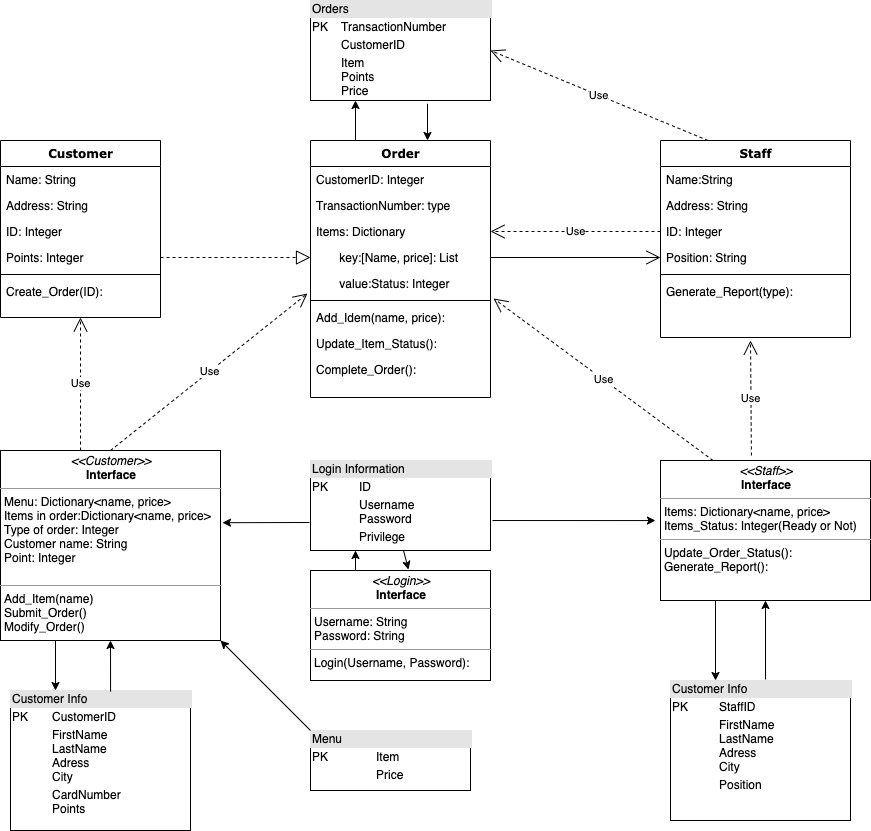
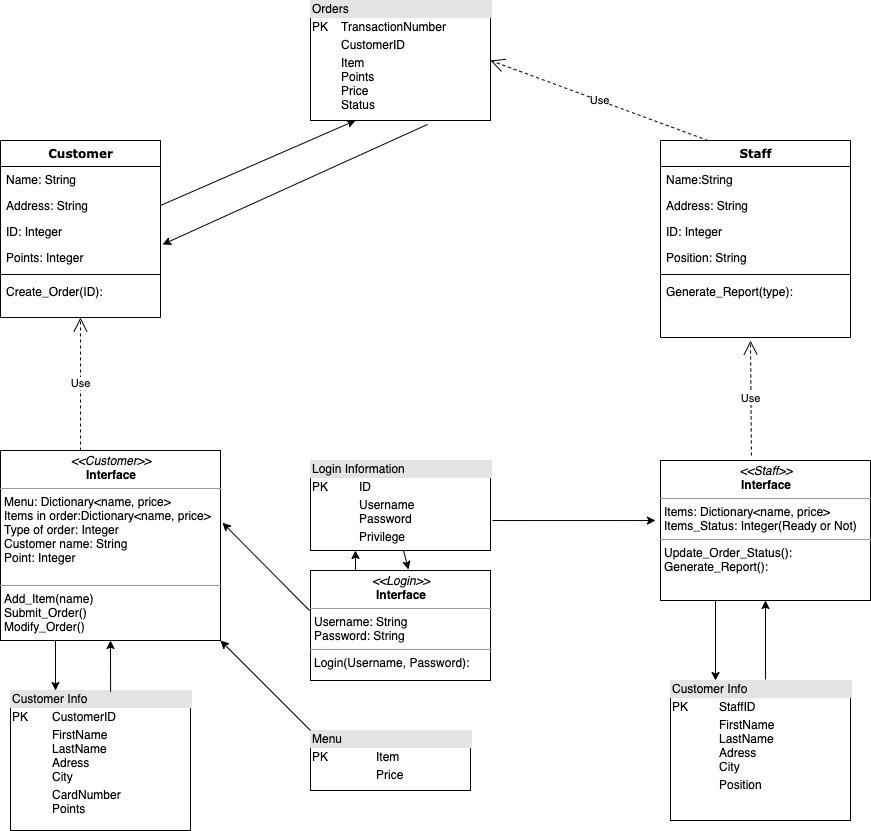
modify diagram, add connection to menu table

diff --git a/customer_interface.py b/customer_interface.py
@@ -30,11 +30,11 @@ class customer_interface(object):
         self.pushButton.setGeometry(QtCore.QRect(1250, 1100, 471, 81))
         self.pushButton.setObjectName("pushButton")
         self.label_6 = QtWidgets.QLabel(self.centralwidget)
-        self.label_6.setGeometry(QtCore.QRect(170, 130, 114, 33))
+        self.label_6.setGeometry(QtCore.QRect(130, 130, 114, 33))
         self.label_6.setAlignment(QtCore.Qt.AlignCenter)
         self.label_6.setObjectName("label_6")
         self.tableWidget = QtWidgets.QTableWidget(self.centralwidget)
-        self.tableWidget.setGeometry(QtCore.QRect(60, 160, 331, 501))
+        self.tableWidget.setGeometry(QtCore.QRect(30, 170, 371, 501))
         self.tableWidget.setObjectName("tableWidget")
         self.tableWidget.setColumnCount(2)
         self.tableWidget.setRowCount(0)
@@ -43,7 +43,7 @@ class customer_interface(object):
         item = QtWidgets.QTableWidgetItem()
         self.tableWidget.setHorizontalHeaderItem(1, item)
         self.tableWidget1 = QtWidgets.QTableWidget(self.centralwidget)
-        self.tableWidget1.setGeometry(QtCore.QRect(570, 160, 401, 501))
+        self.tableWidget1.setGeometry(QtCore.QRect(570, 170, 401, 501))
         self.tableWidget1.setMaximumSize(QtCore.QSize(851, 16777215))
         self.tableWidget1.setObjectName("tableWidget1")
         self.tableWidget1.setColumnCount(4)
@@ -89,7 +89,7 @@ class customer_interface(object):
         self.label_10.setGeometry(QtCore.QRect(1650, 1040, 231, 33))
         self.label_10.setObjectName("label_10")
         self.label_2 = QtWidgets.QLabel(self.centralwidget)
-        self.label_2.setGeometry(QtCore.QRect(730, 130, 101, 16))
+        self.label_2.setGeometry(QtCore.QRect(750, 140, 101, 16))
         self.label_2.setObjectName("label_2")
         self.pushButton_2 = QtWidgets.QPushButton(self.centralwidget)
         self.pushButton_2.setGeometry(QtCore.QRect(430, 260, 113, 51))
@@ -169,10 +169,9 @@ class customer_interface(object):
         self.pushButton_5.setText(_translate("MainWindow", "Modify"))
         self.label_3.setText(_translate("MainWindow", "Customer Name"))
         self.label_5.setText(_translate("MainWindow", "Points"))
-        
         self.pushButton_6.setText(_translate("MainWindow", "Pay"))
-        self.customerName.setText(_translate("MainWindow", "Anonymous"))
-        
-        self.points.setText(_translate("MainWindow", "0"))
+        self.customerName.setText(_translate("MainWindow", "TextLabel"))
+        self.points.setText(_translate("MainWindow", "TextLabel"))
         self.menuPlace_an_Order.setTitle(_translate("MainWindow", "Place an Order"))
+
 

diff --git a/app.py b/app.py
@@ -7,6 +7,7 @@ Created on Thu Nov 26 22:41:58 2020
 """
 import sys
 import psycopg2
+from PyQt5 import QtWidgets
 from PyQt5.QtWidgets import QDialog, QApplication, QMainWindow, QMessageBox
 from login import login_interface
 from staff_interface import staff_interface
@@ -54,19 +55,56 @@ class CustomerInterface(QMainWindow):
     def __init__(self, customerID):
         super().__init__()
         
+        cur = connect()
+            
         self.ui = customer_interface()
         self.ui.setupUi(self)
+        cur.execute("SELECT * FROM menu")
+        menu = cur.fetchall()
+        
+        for row in menu:
+            row_count = self.ui.tableWidget.rowCount()
+            self.ui.tableWidget.setRowCount(row_count+1)
+            for i in range(2):
+                cell = QtWidgets.QTableWidgetItem(str(row[i]))
+                self.ui.tableWidget.setItem(row_count, i, cell)
         
         if(customerID != 0):
-            self.ui.customerName.setText(str(customerID))
-            self.ui.points.setText('5')
-        
+            cur.execute("SELECT * FROM customer_info WHERE customerID=%s;", (str(customerID)))
+            customer = Customer(cur.fetchone())
+            self.ui.customerName.setText(str(customer.name))
+            self.ui.points.setText(str(customer.points))
+            
         
 class StaffInterface(QMainWindow):
     def __init__(self, staffID):
         super().__init__()
         self.ui = staff_interface()
         self.ui.setupUi(self)
+        
+class Customer():
+    def __init__(self, customer_data):
+        if customer_data is not None:
+            self.id = customer_data[0]
+            self.name = customer_data[1] + " " + customer_data[2]
+            self.address = customer_data[3] + " " + customer_data[4]
+            self.cardnumber = customer_data[5]
+            self.points = customer_data[6]
+            self.order = []
+        else:
+            self.id = 0
+            self.name = "Anonymous"
+            self.address = None
+            self.cardnumber = None
+            self.points = None
+            self.order = []
+    
+    def add_to_order(self, item, price, points):
+        cur = connect()
+        cur.execute("""INSERT INTO orders (customerid, item, points, price, ready)
+                    VALUES (%s, %s, %s, %s, 1);
+                    """,
+                    (customerID, item, points, price))
         
 def connect():
     conn = None;
